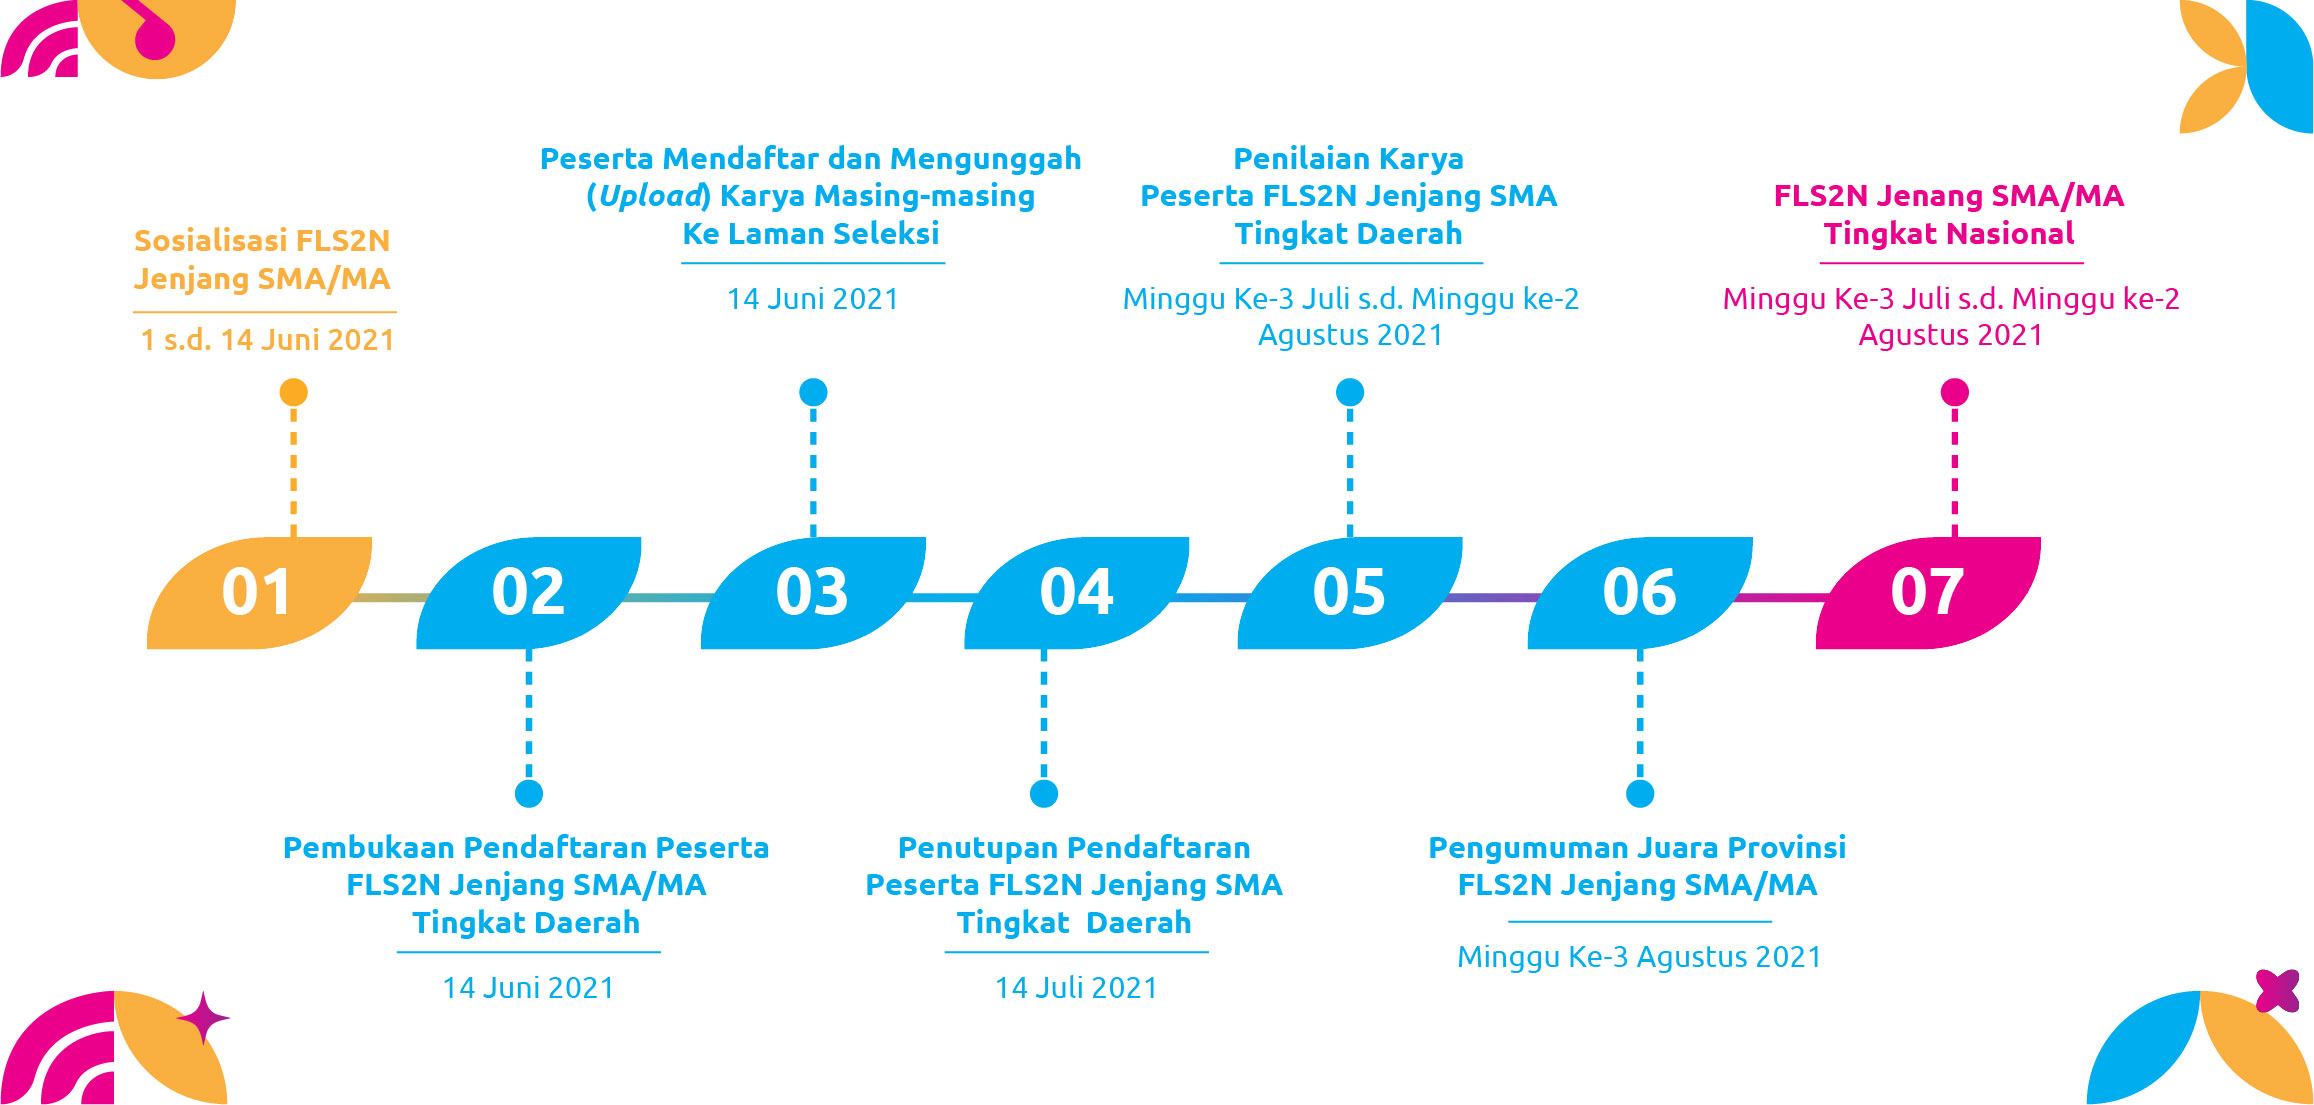
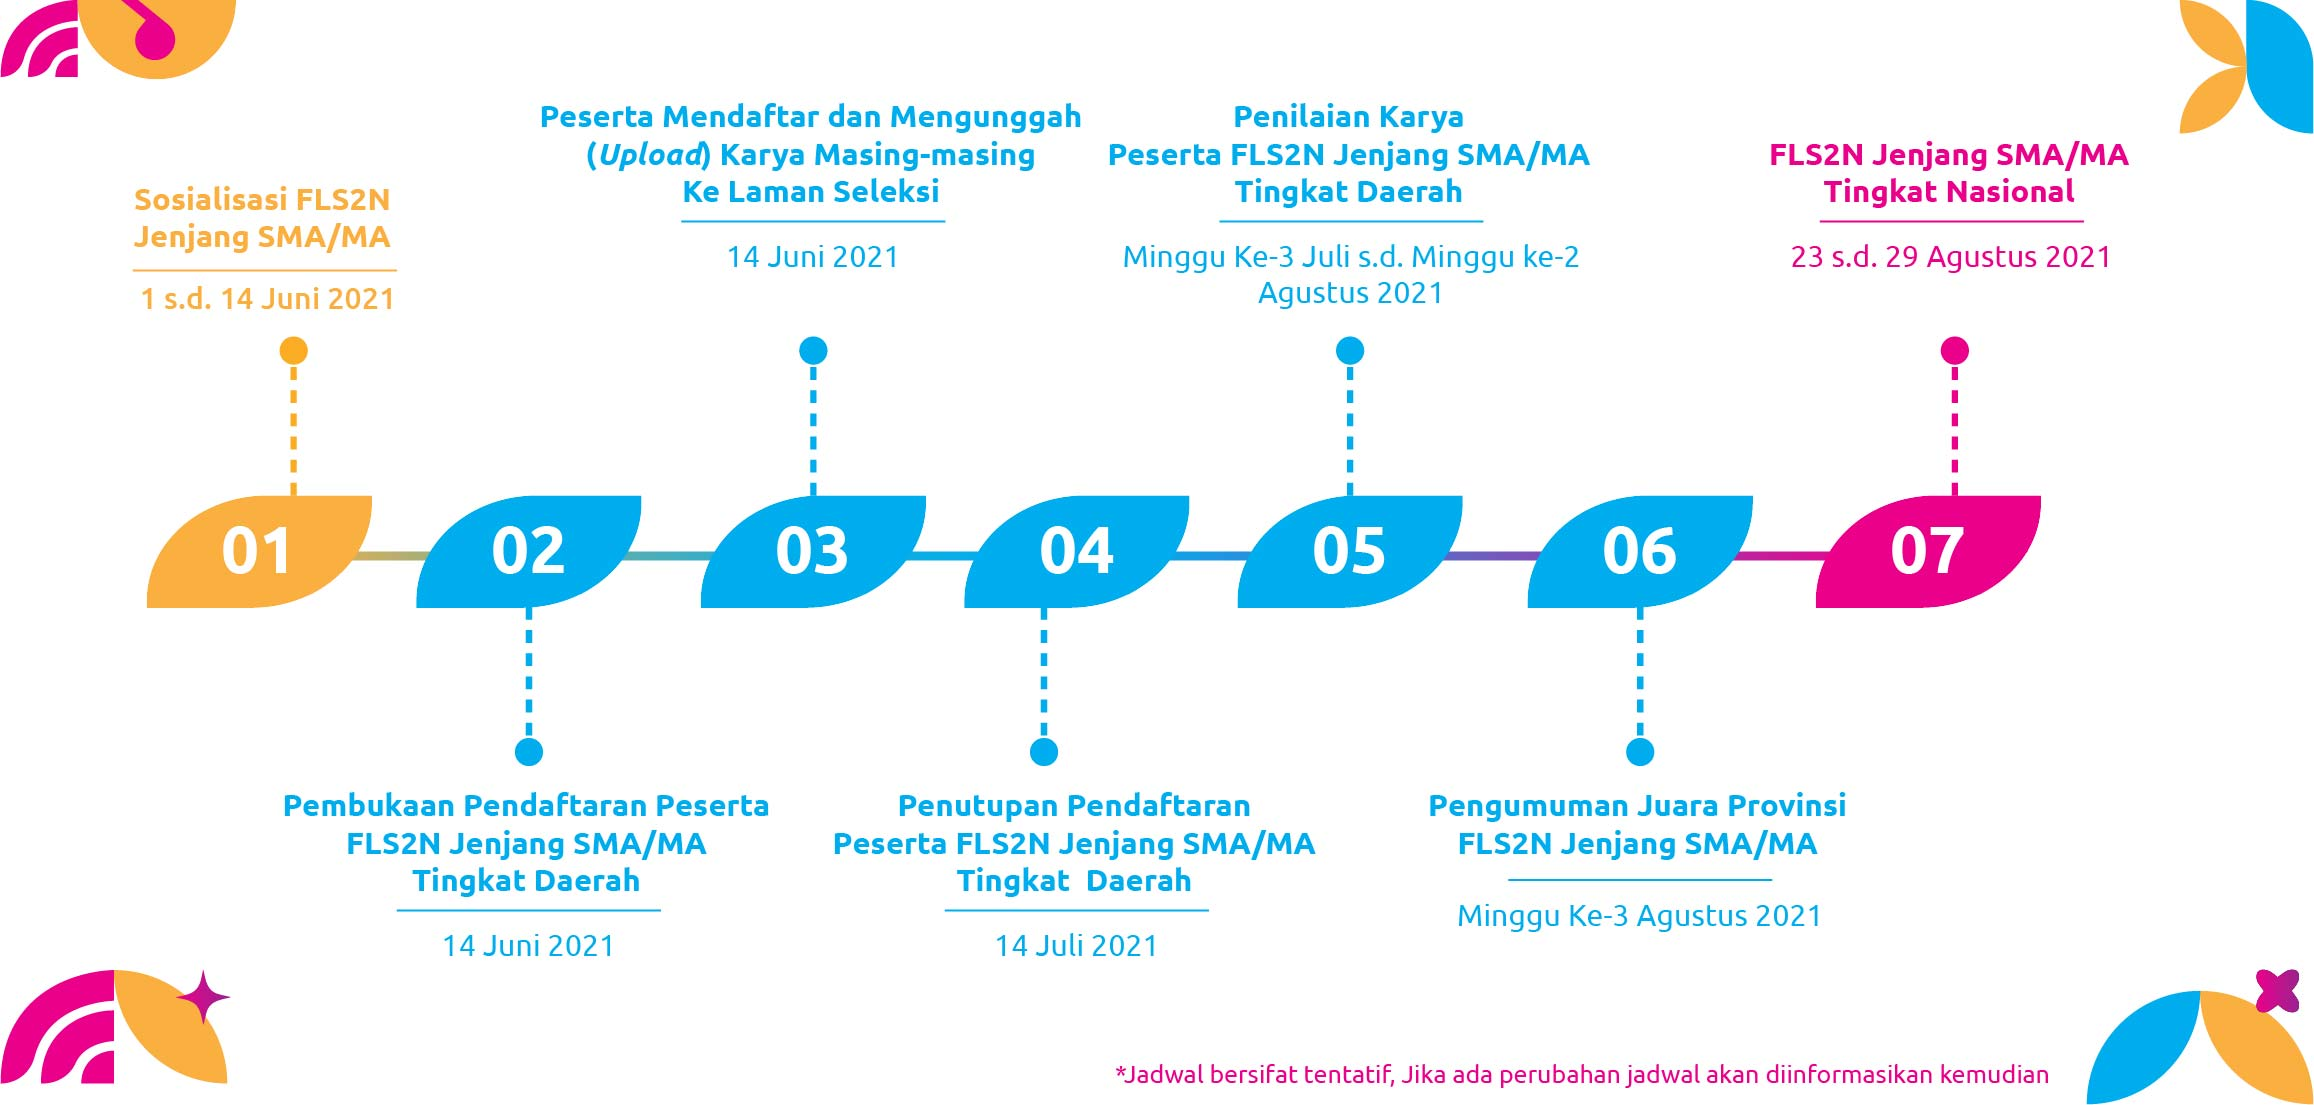
update timeline, add narahubung

diff --git a/public/assets/css/style.css b/public/assets/css/style.css
@@ -577,7 +577,9 @@ footer {
 .detail-berita {
     display: block;
 }
-
+.detail-berita .card{
+    padding: 50px;
+}
 .detail-berita .card img {
     width: 100%;
     height: 300px;

diff --git a/resources/views/layouts/frontend.blade.php b/resources/views/layouts/frontend.blade.php
@@ -46,9 +46,19 @@
                         <!-- <li class="nav-item">
                             <a class="nav-link" href="{{route('informasi')}}">Informasi</a>
                         </li> -->
-                        <li class="nav-item">
-                            <a class="nav-link" href="{{route('berita')}}">Berita</a>
+                        <li class="nav-item dropdown">
+                            <a class="nav-link dropdown-toggle" href="#" id="navbarDropdown" role="button" data-toggle="dropdown" aria-haspopup="true" aria-expanded="false">
+                              Informasi
+                            </a>
+                            <div class="dropdown-menu" aria-labelledby="navbarDropdown">
+                                <!-- <a class="dropdown-item" href="{{route('video')}}">Video Tutorial</a> -->
+                                <a class="dropdown-item" href="{{route('narahubung')}}">Narahubung </a>
+                                <a class="dropdown-item" href="{{route('berita')}}">Kabar Prestasi </a>
+                            </div>
                         </li>
+                        <!-- <li class="nav-item">
+                            <a class="nav-link" href="{{route('berita')}}">Berita</a>
+                        </li> -->
                         <!-- <li class="nav-item">
                             <a class="nav-link" href="{{route('unduhan')}}">Dokumen</a>
                         </li> -->

diff --git a/resources/views/frontend/welcome.blade.php b/resources/views/frontend/welcome.blade.php
@@ -253,7 +253,7 @@
         </div>
         <div class="row">
             <div class="col-md-12">
-                <img src="{{asset('assets/images/timeline.jpg')}}" alt="" srcset="" style="width: 100%; margin-top: 30px; background-color: #fff; border-radius: 16px;">
+                <img src="{{ asset('assets/images/timeline.jpg')}}" alt="" srcset="" style="width: 100%; margin-top: 30px; background-color: #fff; border-radius: 16px;">
             </div>
         </div>
     </div>
@@ -262,7 +262,7 @@
     <div class="container">
         <div class="row">
             <div class="col-md-4">
-                <h1 class="title-section4 mb-4">Berita</h1>
+                <h1 class="title-section4 mb-4">Kabar Seni</h1>
             </div>
         </div>
         <div class="row">

diff --git a/resources/views/frontend/narahubung.blade.php b/resources/views/frontend/narahubung.blade.php
@@ -1,0 +1,28 @@
+@extends('layouts.frontend')
+@section('title','Narahubung')
+@section('style')
+    <style>
+        .banner{
+            background-color: #00ADEE !important;
+        }
+        .navbar-dark .nav-link {
+            color: #fff !important;
+        }
+    </style>
+@endsection
+@section('content')
+<section>
+    <div class="container">
+        <div class="row">
+            <div class="col-md-5">
+                <h1 class="title-section">Narahubung</h1>
+            </div>
+        </div>
+        <div class="row">
+            <div class="col-md-7 mx-auto">
+                <img src="{{ asset('assets/images/narahubung.jpg') }}" alt="" style="display: block; width: 100%;"/>
+            </div>
+        </div>
+    </div>
+</section>
+@endsection

diff --git a/routes/web.php b/routes/web.php
@@ -43,7 +43,7 @@ Route::get('kendala', [KendalaController::class, 'tiket'])->name('tiket');
 Route::get('cek-kendala', [FrontendController::class, 'cek_tiket'])->name('cek_tiket');
 Route::any('tiket', [KendalaController::class, 'add_tiket'])->name('add_tiket');
 Route::any('cek-tiket', [FrontendController::class, 'cek_tikets'])->name('cek_tikets');
-
+Route::get('/narahubung', [FrontendController::class, 'narahubung'])->name('narahubung');
 
 Route::middleware(['guest'])->group(function () {
     Route::any('daftar', [FrontendController::class, 'daftar'])->name('daftar');

diff --git a/resources/views/frontend/berita.blade.php b/resources/views/frontend/berita.blade.php
@@ -15,7 +15,7 @@
     <div class="container">
         <div class="row">
             <div class="col-md-5">
-                <h1 class="title-section">Berita</h1>
+                <h1 class="title-section">Kabar Seni</h1>
             </div>
         </div>
         <div class="row">

diff --git a/app/Http/Controllers/FrontendController.php b/app/Http/Controllers/FrontendController.php
@@ -143,7 +143,10 @@ class FrontendController extends Controller
 
       return view('frontend.informasi');
    }
-
+   public function narahubung()
+   {      
+      return view('frontend.narahubung');
+   }
    function load_info(Request $request)
    {
       if($request->ajax())
